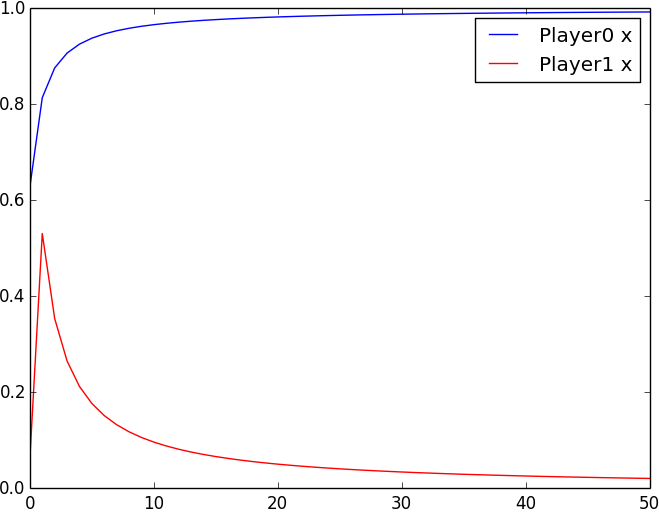
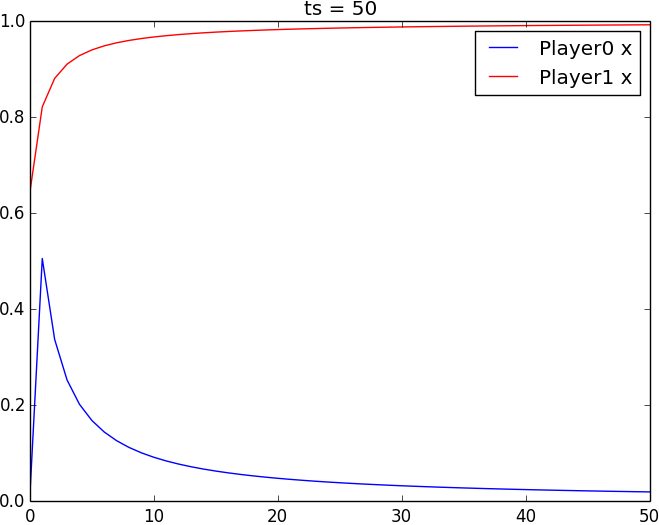
minor error fixed

diff --git a/Ficplay.py b/Ficplay.py
@@ -71,7 +71,7 @@ xaxis = range(trials)
 ax.plot(xaxis, x0_values, 'b-',label = 'Player0 x')
 ax.plot(xaxis, x1_values, 'r-',label = 'Player1 x')
 ax.legend()
-
+plt.title('ts = '+ str(trials - 1), color='k')
 plt.savefig(gamename + str(trials-1) + '.png',transparent=True, bbox_inches='tight', pad_inches=0)
 plt.close()
 

diff --git a/coordgame.py b/coordgame.py
@@ -81,7 +81,7 @@ xaxis = range(trials)
 ax.plot(xaxis, x0_values, 'b-',label = 'Player0 x')
 ax.plot(xaxis, x1_values, 'r-',label = 'Player1 x')
 ax.legend()
-
+plt.title('ts = '+ str(trials - 1), color='k')
 plt.savefig(gamename + str(trials-1) + '.png',transparent=True, bbox_inches='tight', pad_inches=0)
 plt.close()
 
